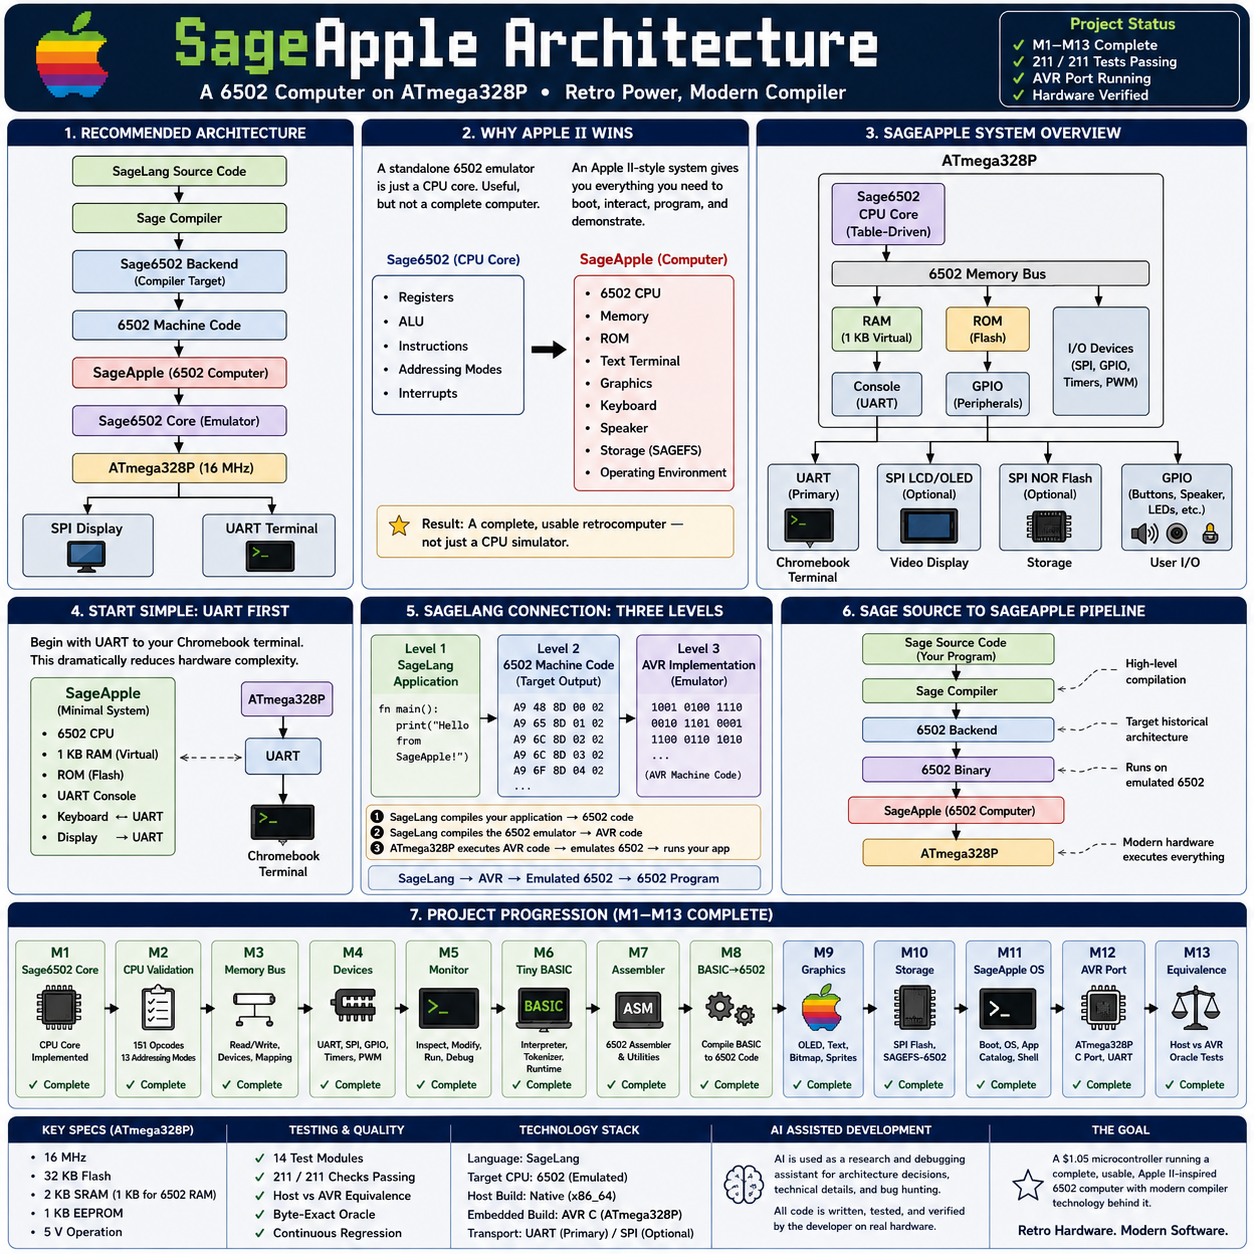
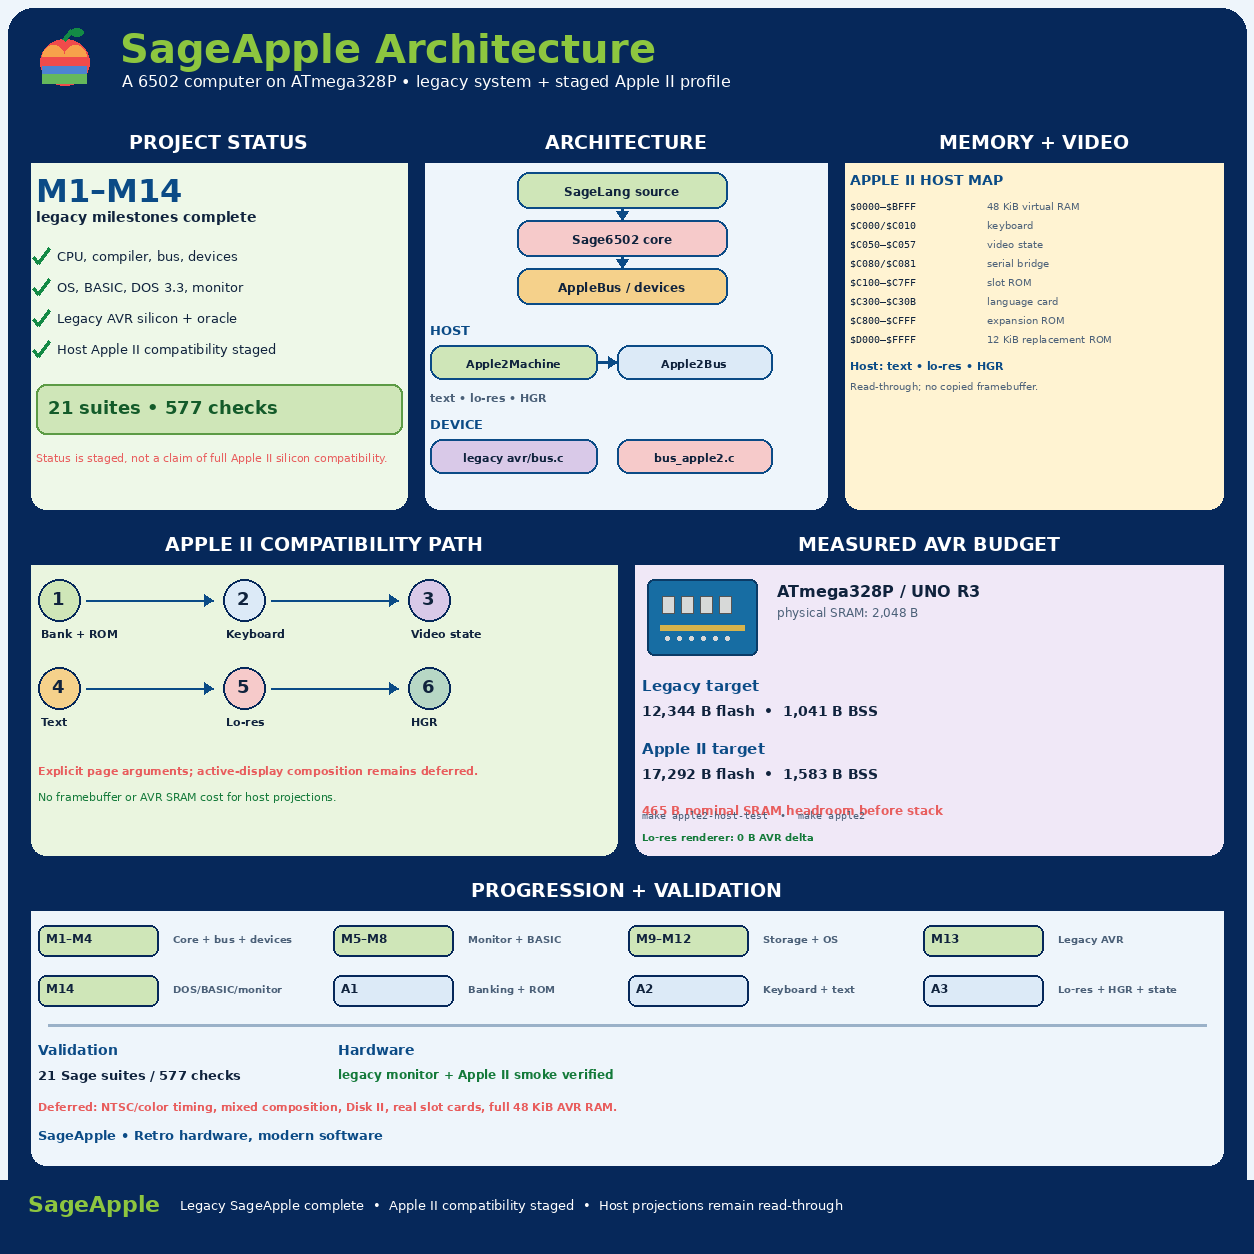
Add Apple II lo-res projection and refresh infographics

diff --git a/docs/bus.md b/docs/bus.md
@@ -64,9 +64,9 @@ programs fit comfortably. See [docs/avr.md](avr.md).
 
 ## `Apple2Bus` — staged Apple II profile
 
-`apple2bus.sage` is isolated from the legacy `AppleBus`. It provides a 48 KiB host RAM view at `$0000-$BFFF`, a strict 12 KiB read-only ROM at `$D000-$FFFF`, Apple keyboard/speaker/video soft switches, and a `$C080/$C081` serial bridge. The keyboard path keeps a stable encoded latch at `$C000`; `$C010` reads and writes acknowledge the pending key, promote queued input in order, and clear the latch high bit when the queue is empty. String `keyboard_input()` values encode `A-Z` (case-normalized), `0-9`, space, CR, and LF; numeric and array values are already encoded keycodes and pass through unchanged. The host UART bridge remains independent of the keyboard latch. Text and hi-res writes are recorded as ordered events rather than stored in a framebuffer.
+`apple2bus.sage` is isolated from the legacy `AppleBus`. It provides a 48 KiB host RAM view at `$0000-$BFFF`, a strict 12 KiB read-only ROM at `$D000-$FFFF`, Apple keyboard/speaker/video soft switches, and a `$C080/$C081` serial bridge. The keyboard path keeps a stable encoded latch at `$C000`; `$C010` reads and writes acknowledge the pending key, promote queued input in order, and clear the latch high bit when the queue is empty. String `keyboard_input()` values encode `A-Z` (case-normalized), `0-9`, space, CR, and LF; numeric and array values are already encoded keycodes and pass through unchanged. The host UART bridge remains independent of the keyboard latch. Text/lo-res and hi-res writes are recorded as ordered events rather than stored in a framebuffer.
 
-The canonical video state is `text`, `mixed`, `page2`, and `hires`, initialized and reset to `[true, false, false, false]`. Reads and writes of `$C050-$C057` apply the corresponding soft switch; written values are ignored by the canonical state. Reads update that state while retaining the legacy address-latch return, and writes continue to update `video_switches[8]`, `video_values[8]`, and `video_events`. `video_snapshot()` returns the four canonical fields, `video_mode()` returns `text`, `lores`, or `hires`, and `video_page()` returns 1 or 2. `reset()` clears volatile state, while `clear_events()` only clears logs. `sageapple/apple2_text.sage` and `sageapple/apple2_hires.sage` remain explicit host-only read-only projections; they add no active-display dispatch, framebuffer, or rendering state. `sageapple/apple2_machine.sage` forwards the video state API, and `sageapple/apple2_rom.sage` builds the replacement ROM.
+The canonical video state is `text`, `mixed`, `page2`, and `hires`, initialized and reset to `[true, false, false, false]`. Reads and writes of `$C050-$C057` apply the corresponding soft switch; written values are ignored by the canonical state. Reads update that state while retaining the legacy address-latch return, and writes continue to update `video_switches[8]`, `video_values[8]`, and `video_events`. `video_snapshot()` returns the four canonical fields, `video_mode()` returns `text`, `lores`, or `hires`, and `video_page()` returns 1 or 2. `reset()` clears volatile state, while `clear_events()` only clears logs. `sageapple/apple2_text.sage`, `sageapple/apple2_lores.sage`, and `sageapple/apple2_hires.sage` remain explicit host-only read-only projections. The lo-res view follows the text-page interleave and maps even and odd horizontal cells to the high and low nibbles, producing 80 color cells per 40x24 row from an exact 16-entry palette. None adds active-display dispatch, a framebuffer, a RAM copy, event mutation, or bus writes. `sageapple/apple2_machine.sage` forwards the page views and video state API, and `sageapple/apple2_rom.sage` builds the replacement ROM.
 
 The language-card model uses `$C300-$C30B` to select its two 4 KiB `$D000` banks and shared `$E000-$F7FF` RAM; ROM mode uses the loaded main ROM as a deterministic fallback. Strict 256-byte slot ROMs for slots 1-7 map through `$C100-$C7FF`, and a strict 2 KiB expansion ROM maps `$C800-$CFFF`. The reduced AVR profile mirrors the four video fields in one packed byte exposed by `bus_video_state()` while retaining the same latch arrays and write-event behavior.
 

diff --git a/docs/avr.md b/docs/avr.md
@@ -28,7 +28,7 @@ avr/
 |---|---|
 | flash | ~12.3 KB of 32 KB (legacy: includes 8 KB monitor ROM) |
 | Apple II profile flash | 17,292 B of 32,768 B |
-| SRAM | 1,036 B of 2,048 B (legacy: 1 KB 6502 RAM + emulator state) |
+| SRAM | 1,041 B of 2,048 B (legacy: 1 KB 6502 RAM + emulator state) |
 | Apple II profile SRAM | 1,583 B of 2,048 B (1 KB guest RAM + 512 B partial language-card RAM + state) |
 | UART | USART0, 9600 8N1, 16 MHz |
 | clock | 16 MHz (external crystal, CKDIV off: lfuse `0xFF`) |
@@ -54,7 +54,7 @@ make apple2-host-test
 make apple2-flash DEVICE=/dev/ttyACM0 BAUD=115200 PROTO=arduino
 ```
 
-The host profile uses a 48 KiB RAM view, a strict 12 KiB ROM at `$D000-$FFFF`, Apple soft switches at `$C000`, `$C010`, `$C030`, `$C050-$C057`, and `$C300-$C30B`, plus a serial bridge at `$C080/$C081`. `$C000` holds the stable keyboard latch, while `$C010` reads and writes acknowledge it and advance host-queued keys in order. The language-card model provides two 4 KiB `$D000` banks and shared `$E000-$F7FF` RAM; the host bus also provides strict 256-byte slot ROMs and a 2 KiB expansion ROM. Text and hi-res writes are recorded as ordered events instead of allocating a framebuffer. The 40x24 text-page projection in `sageapple/apple2_text.sage` and the 280x192 HGR projection in `sageapple/apple2_hires.sage` are host-only, read the live bus without a copied framebuffer, and are not part of the AVR image or ROM generation. `sageapple/apple2_rom.sage` builds the redistributable replacement ROM; Apple ROM binaries are not included. The reduced AVR bus mirrors text, mixed, page2, and hires in one packed byte, applies `$C050-$C057` on both reads and writes, and exposes it through `bus_video_state()`; it retains the existing video latch arrays and write-event behavior without a FIFO, framebuffer, or timing model.
+The host profile uses a 48 KiB RAM view, a strict 12 KiB ROM at `$D000-$FFFF`, Apple soft switches at `$C000`, `$C010`, `$C030`, `$C050-$C057`, and `$C300-$C30B`, plus a serial bridge at `$C080/$C081`. `$C000` holds the stable keyboard latch, while `$C010` reads and writes acknowledge it and advance host-queued keys in order. The language-card model provides two 4 KiB `$D000` banks and shared `$E000-$F7FF` RAM; the host bus also provides strict 256-byte slot ROMs and a 2 KiB expansion ROM. Text/lo-res and hi-res writes are recorded as ordered events instead of allocating a framebuffer. The 40x24 text-page projection in `sageapple/apple2_text.sage`, the 40x24/80-cell lo-res projection in `sageapple/apple2_lores.sage`, and the 280x192 HGR projection in `sageapple/apple2_hires.sage` are host-only, read the live bus without a copied framebuffer, and are not part of the AVR image or ROM generation. The lo-res slice therefore has no AVR/C or ROM impact. `sageapple/apple2_rom.sage` builds the redistributable replacement ROM; Apple ROM binaries are not included. The reduced AVR bus mirrors text, mixed, page2, and hires in one packed byte, applies `$C050-$C057` on both reads and writes, and exposes it through `bus_video_state()`; it retains the existing video latch arrays and write-event behavior without a FIFO, framebuffer, or timing model.
 
 The Uno profile uses 1 KiB of guest RAM, a 12 KiB replacement ROM, the same soft switches, and the serial bridge. A guest `$C010` read polls one UART byte when no key is pending, encodes it as an Apple key, and acknowledges the latch; there is no keyboard FIFO or extra SRAM queue. `$C080` and `$C081` remain available for direct serial use. Its language-card implementation is intentionally reduced to 512 bytes of backing storage covering 128 bytes per `$D000` bank and `$E000-$E1FF`; it does not provide full 48 KiB RAM, video RAM, Disk II, complete slot hardware, or cycle-level NTSC timing.
 

diff --git a/README.md b/README.md
@@ -18,11 +18,13 @@ re-implemented in C and runs on the chip over a physical UART.
   processor, full Applesoft BASIC at a `]` prompt, and an Apple II monitor
   (`*` prompt, `CALL -151`) with memory dumps, disassembly and go.
 - The Apple II compatibility profile includes read-only host projections of
-  the 40x24 text pages at `$0400` and `$0800`, with inverse/flash decoding,
-  and the 280x192 HGR pages at `$2000` and `$4000`, with live read-through
-  pixels and no copied framebuffer. The Apple II bus also exposes canonical
-  text, mixed, page, and graphics-mode soft-switch state through
-  `video_snapshot()`, `video_mode()`, and `video_page()`.
+  the 40x24 text pages at `$0400` and `$0800`, with inverse/flash decoding;
+  the 40x24 lo-res pages with 80 horizontal color cells and 16-entry palettes;
+  and the 280x192 HGR pages at `$2000` and `$4000`. All read live bus memory
+  without a copied framebuffer, and the lo-res projection has no AVR impact.
+  The Apple II bus also exposes canonical text, mixed, page, and graphics-mode
+  soft-switch state through `video_snapshot()`, `video_mode()`, and
+  `video_page()`.
 - The AVR board boots into the classic 6502 monitor (`help dump peek poke
   regs run reset`); that session is a byte-exact transcript check between
   host and chip.
@@ -49,7 +51,7 @@ hardware:
 | M13 | Real AVR silicon: C port of the core, PROGMEM opcode table, host-oracle equivalence, verified flash+run on the board |
 | M14 | Apple II software stack: DOS 3.3 command processor, full Applesoft BASIC, host Apple II monitor (`*` dumps/disassembly/go), unified `]` BASIC / `*` monitor shell, SAGEFS v2 with DOS file types |
 
-Host suites: **20 suites, 551 checks passing** — plus the AVR host
+Host suites: **21 suites, 577 checks passing** — plus the AVR host
 equivalence test (`make host-test`).
 
 ## Architecture
@@ -105,7 +107,7 @@ sage tests/machine/test_os.sage  # full end-to-end OS check (24 checks)
 ./sagemake run --test            # scripted verification session (no prompt)
 ```
 
-All 20 suites run the same way; see [docs/tests.md](docs/tests.md).
+All 21 suites run the same way; see [docs/tests.md](docs/tests.md).
 
 ## Hardware
 
@@ -154,10 +156,10 @@ over the physical UART (9,600 baud); `C-a d`/`C-a k` returns to the
 
 ## Test suite
 
-Run any module standalone, or all 20:
+Run any module standalone, or all 21:
 
 ```sh
-for t in tests/*/*.sage; do sage "$t"; done   # 551 checks, all OK
+for t in tests/*/*.sage; do sage "$t"; done   # 577 checks, all OK
 ```
 
 ## Repository layout

diff --git a/docs/ANALYSIS.md b/docs/ANALYSIS.md
@@ -20,6 +20,7 @@ Apple II-inspired retrocomputer emulator in **SageLang**, targeting ATmega328P/A
 | **Flags** | `sage6502/flags.sage` | ~97 | P register (NV-BDIZC) |
 | **Bus** | `bus/applebus.sage` | ~111 | Memory map: RAM/ROM/devices |
 | **Apple II text** | `sageapple/apple2_text.sage` | ~81 | Read-only 40x24 page 1/2 projection |
+| **Apple II lo-res** | `sageapple/apple2_lores.sage` | ~55 | Read-only 40x24/80-cell page 1/2 color projection |
 | **Apple II HGR** | `sageapple/apple2_hires.sage` | ~56 | Read-only 280x192 page 1/2 projection |
 | **Devices** | `devices/*.sage` | ~300 | UART, SPI, OLED, flash, speaker |
 | **BASIC** | `basic/basic.sage` | ~2180 | Full Applesoft |
@@ -63,7 +64,7 @@ Apple II-inspired retrocomputer emulator in **SageLang**, targeting ATmega328P/A
 
 ---
 
-## Test Coverage: 20 Suites, 551 Checks (All Passing)
+## Test Coverage: 21 Suites, 577 Checks (All Passing)
 
 | Suite area | Checks |
 |-------|--------|
@@ -73,7 +74,7 @@ Apple II-inspired retrocomputer emulator in **SageLang**, targeting ATmega328P/A
 | Apple II bus | 164 |
 | Machine (OS/Apple2/Speaker) | 75 |
 | Compiler (asm6502/backend) | 33 |
-| Display (SPI/OLED/text/HGR) | 96 |
+| Display (SPI/OLED/text/lo-res/HGR) | 122 |
 | Storage (Flash/FS) | 50 |
 
 **AVR host-equivalence verified**
@@ -103,7 +104,7 @@ All install via `catalog.install_basic_apps()`, run with `RUN <NAME>`
 
 ## AVR Port
 
-`avr/` — C port with PROGMEM tables, generated by `tools/gen_table.sage` and `tools/rom_gen.sage`. Oracle transcript in `host_expected.txt` verified by `make host-test`. The reduced Apple II bus mirrors the canonical text/mixed/page2/hires state in one packed byte and exposes it through `bus_video_state()`.
+`avr/` — C port with PROGMEM tables, generated by `tools/gen_table.sage` and `tools/rom_gen.sage`. Oracle transcript in `host_expected.txt` verified by `make host-test`. The reduced Apple II bus mirrors the canonical text/mixed/page2/hires state in one packed byte and exposes it through `bus_video_state()`. The text, lo-res, and HGR page projections are host-only and are excluded from the AVR image and ROM generation.
 
 ---
 
@@ -115,7 +116,7 @@ All install via `catalog.install_basic_apps()`, run with `RUN <NAME>`
 
 ## Current Status
 
-✅ **All 20 suites, 551 checks passing**
+✅ **All 21 suites, 577 checks passing**
 ✅ **AVR host-equivalence verified**  
 ✅ **12 classic apps functional**  
 ✅ **README updated with single images**  

diff --git a/CHANGELOG.md b/CHANGELOG.md
@@ -2,12 +2,19 @@
 
 ## [Unreleased]
 
+### Host Apple II lo-res page projection
+- `sageapple/apple2_lores.sage` — read-only 40x24 projection of Apple II lo-res pages 1 and 2 at `$0400` and `$0800`, with 80 horizontal cells, high/low nibble color decoding, 16-entry palettes, and no framebuffer or bus copy
+- `sageapple/apple2_machine.sage` — shared lo-res view plus `lores_color()` and newline-joined `render_lores()` forwarding
+- `tests/display/test_apple2_lores.sage` — 26 checks for mapping, bounds, all 16 colors, page isolation, holes, live overwrites, dimensions, palette validation, machine forwarding, and read-only bus behavior
+- Host suite total after this slice: **21 suites, 577 checks passing**; the projection is host-only and does not alter AVR/C, Apple2Bus, or ROM generation
+- `assets/SageApple.png` and `assets/SageAppleInfo.png` — refreshed staged Apple II architecture, memory maps, measured budgets, and 21/577 status
+
 ### Canonical Apple II video soft-switch state
 - `bus/apple2bus.sage` — canonical `text`, `mixed`, `page2`, and `hires` state with `video_snapshot()`, `video_mode()`, and `video_page()`; `$C050-$C057` reads and writes update state while legacy latch arrays and write events remain compatible
 - `sageapple/apple2_machine.sage` — forwards the canonical video state API
 - `avr/bus_apple2.c` and `avr/apple2_host_main.c` — packed text/mixed/page2/hires byte, shared read/write switch helper, accessor, and focused host checks without a FIFO, framebuffer, or ROM changes
 - `tests/bus/test_apple2_map.sage` and `tests/display/test_apple2_hires.sage` — 164 and 31 focused checks covering reset, all write/read switches, modes, pages, mixed state, latch compatibility, event preservation, machine forwarding, and read-only rendering
-- Focused host metadata is 20 suites and 551 checks; the Apple II AVR profile measures 17,292 bytes of text and 1,583 bytes of BSS
+- Focused host metadata is 21 suites and 577 checks; the Apple II AVR profile measures 17,292 bytes of text and 1,583 bytes of BSS
 
 ### Host Apple II HGR page projection
 - `sageapple/apple2_hires.sage` — read-only 280x192 projection of Apple II HGR pages 1 and 2 at `$2000` and `$4000`, with live interleaved reads, low-seven-bit pixels, and no framebuffer or bus copy

diff --git a/docs/architecture.md b/docs/architecture.md
@@ -17,7 +17,7 @@ edges:
   `Apple2Bus`, replacement ROM at `$D000`, language-card banking, slot and
   expansion ROM windows, soft switches, canonical text/mixed/page/graphics
   state, serial bridge, text/hi-res write events, and host-only 40x24
-  text-page and 280x192 HGR projections.
+  text-page, 40x24/80-cell lo-res, and 280x192 HGR projections.
 
 The legacy profile boots on the host and the real chip. The reduced Apple II
 profile is intentionally separate and does not yet reproduce the complete
@@ -67,7 +67,7 @@ AVR chip.
 | [docs/os.md](os.md) | OS console, monitor, filesystem, graphics, boot |
 | [docs/avr.md](avr.md) | ATmega328P port, C runtime, flashing |
 | [docs/tools.md](tools.md) | host-side tools (hex, ROM, table generation) |
-| [docs/tests.md](tests.md) | the 20 validation suites and 551 checks |
+| [docs/tests.md](tests.md) | the 21 validation suites and 577 checks |
 
 ## Key design decisions
 
@@ -94,6 +94,9 @@ AVR chip.
 6. **Video soft switches have canonical state.** `Apple2Bus` applies
    `$C050-$C057` on reads and writes, exposes text, mixed, page, and mode
    projections, and keeps the legacy address latches and write log separate.
+7. **Apple II page projections are host-only.** Text, lo-res, and HGR views
+   read the live `Apple2Bus` without a framebuffer, RAM copy, event mutation,
+   or bus writes, and are excluded from the AVR image and ROM generation.
 
 ## Execution models
 
@@ -133,6 +136,7 @@ the host budget belongs to the emulator state; see [docs/avr.md](avr.md).)
 | `bus/applebus.sage` | the AppleBus: RAM + ROM + memory-mapped devices |
 | `bus/apple2bus.sage` | Apple II compatibility bus, video soft-switch state, and latches |
 | `sageapple/apple2_text.sage` | host-only 40x24 Apple II text-page projection |
+| `sageapple/apple2_lores.sage` | host-only 40x24 Apple II lo-res projection with 80 horizontal color cells |
 | `sageapple/apple2_hires.sage` | host-only 280x192 Apple II HGR projection |
 | `sageapple/apple2_machine.sage` | Apple II CPU wrapper and forwarded video state API |
 | `devices/*.sage` | UART, SPI master, OLED display, NOR flash, speaker models |

diff --git a/docs/tests.md b/docs/tests.md
@@ -1,6 +1,6 @@
 # Tests — `tests/`
 
-SageApple is validated by **20 SageLang suites: 551 checks**, each
+SageApple is validated by **21 SageLang suites: 577 checks**, each
 self-contained (`Results: N passed, 0 failed` + `ALL OK` on success),
 each runnable directly:
 
@@ -28,13 +28,14 @@ sage tests/boot/test_monitor.sage
 | `tests/display/test_spi.sage` | 9 | SPI framing, CS, loopback, counters |
 | `tests/display/test_display.sage` | 29 | OLED decode, windows, pixels/lines/text, 6502-driven |
 | `tests/display/test_apple2_text.sage` | 27 | Apple II 40x24 text-page mapping, modes, validation, trimming, isolation, live reads, ANSI markers |
+| `tests/display/test_apple2_lores.sage` | 26 | Apple II 40x24/80-cell lo-res mapping, bounds, all 16 colors, palette rendering, validation, holes, isolation, live reads, machine forwarding, read-only bus behavior |
 | `tests/display/test_apple2_hires.sage` | 31 | Apple II 280x192 HGR mapping, low-seven-bit pixels, validation, holes, isolation, live reads, rendering, machine forwarding, canonical video state, read-only bus behavior |
 | `tests/storage/test_flash.sage` | 21 | flash IDs, WEL, program/read, sector erase, NOR protection, 6502-driven |
 | `tests/storage/test_fs.sage` | 29 | SAGEFS v2 round-trips, limits, persistence, overwrite allocation, BASIC save/load |
 | `tests/machine/test_speaker.sage` | 12 | speaker model + BASIC/6502 driving |
 | `tests/machine/test_os.sage` | 24 | the definition-of-done session |
 | `tests/machine/test_apple2.sage` | 39 | DOS 3.3 verbs, file types, monitor shell, CALL -151, buffers, EXEC, device errors |
-| **Total** | **551** | |
+| **Total** | **577** | |
 
 ## How suites assert
 
